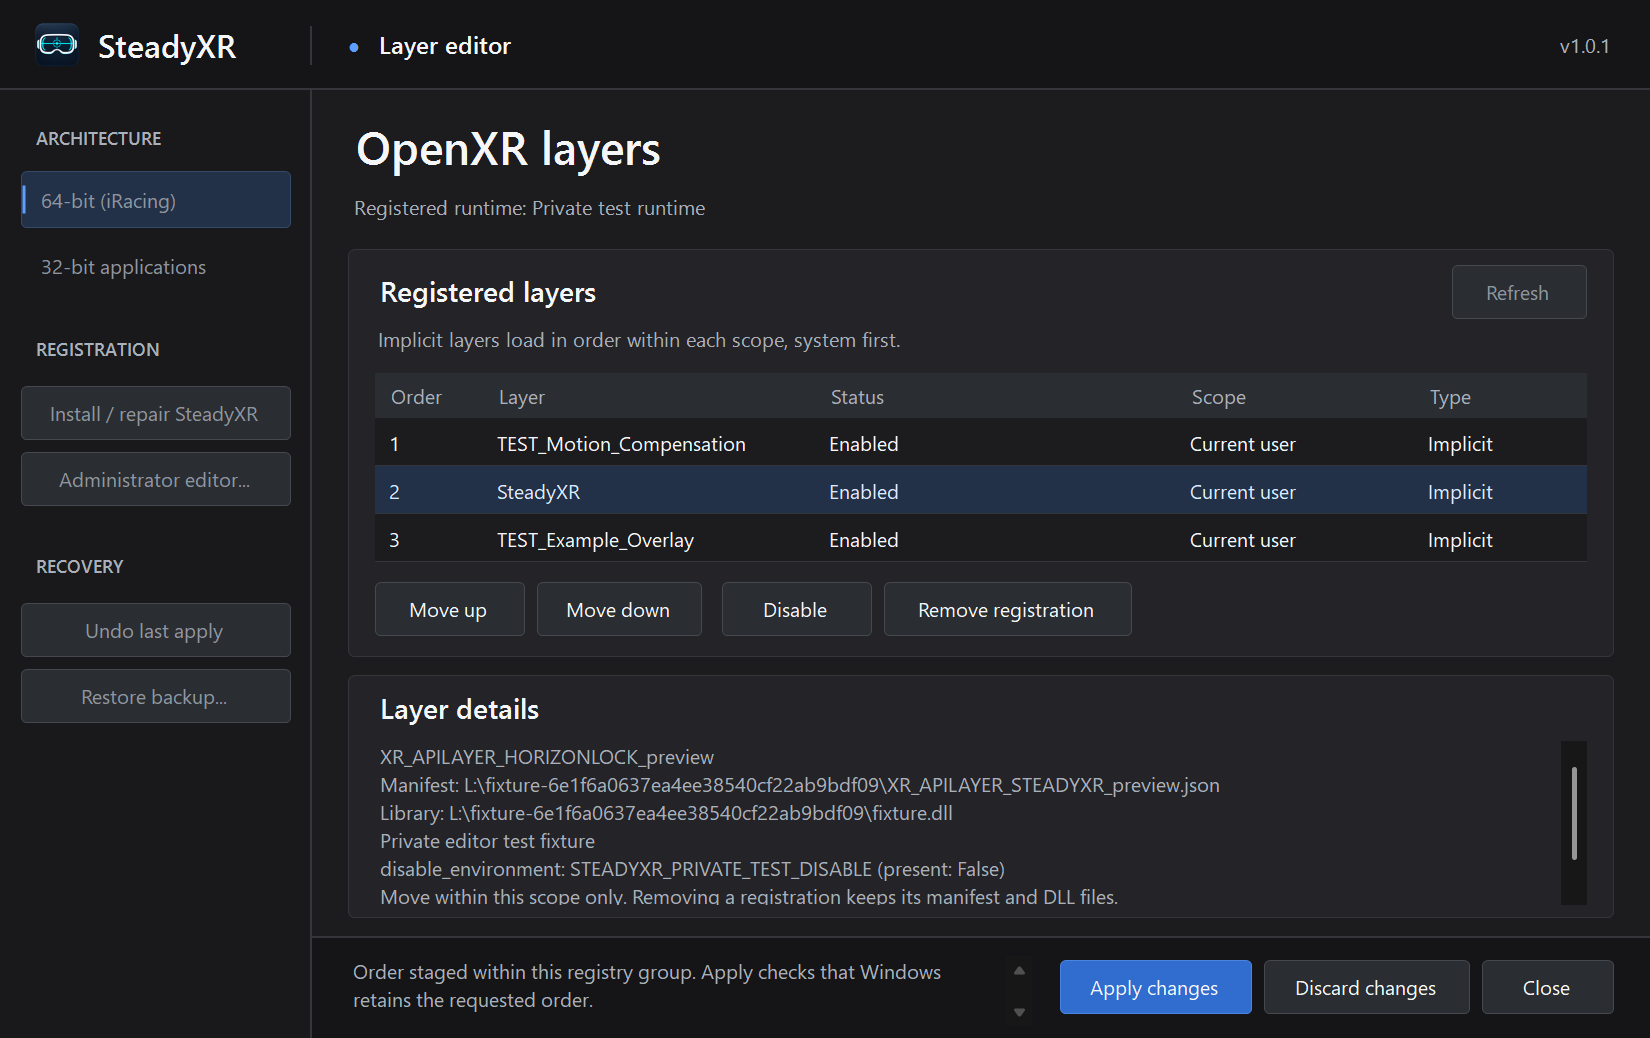
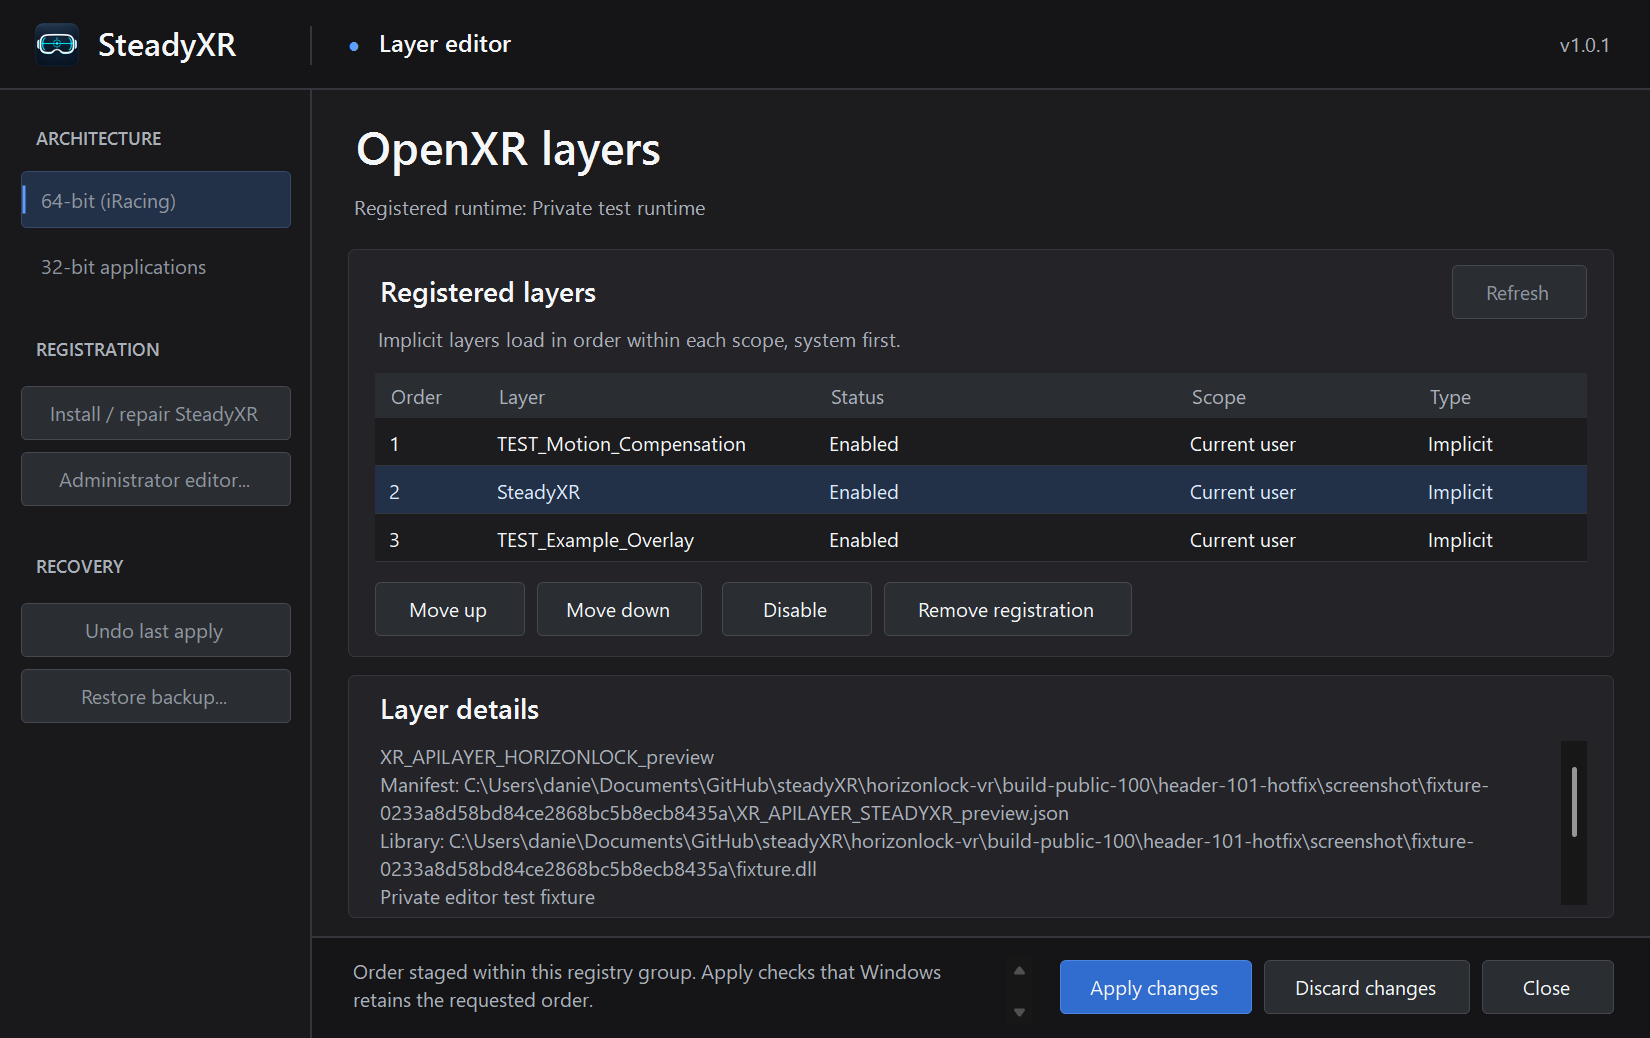
Keep the layer editor header divider continuous and simplify the license note

Changed region(s): [[0.2164, 0.7399, 0.8964, 0.894], [0.2164, 0.0308, 0.3091, 0.0617], [0.0618, 0.0308, 0.1545, 0.0617]]

diff --git a/README.md b/README.md
@@ -66,4 +66,4 @@ The app and capture layer are built in `build/preview/Release`. The downloadable
 
 ## License
 
-Original SteadyXR standalone code and assets in this public release are source-available under **PolyForm Noncommercial 1.0.0**, the same license used by OpenGrid XR. Earlier license grants remain valid. Third-party components retain their own terms. [License](LICENSE) · [Third-party notices](THIRD-PARTY-NOTICES.md)
+Original SteadyXR standalone code and assets in this public release are source-available under **PolyForm Noncommercial 1.0.0**. Earlier license grants remain valid. Third-party components retain their own terms. [License](LICENSE) · [Third-party notices](THIRD-PARTY-NOTICES.md)
